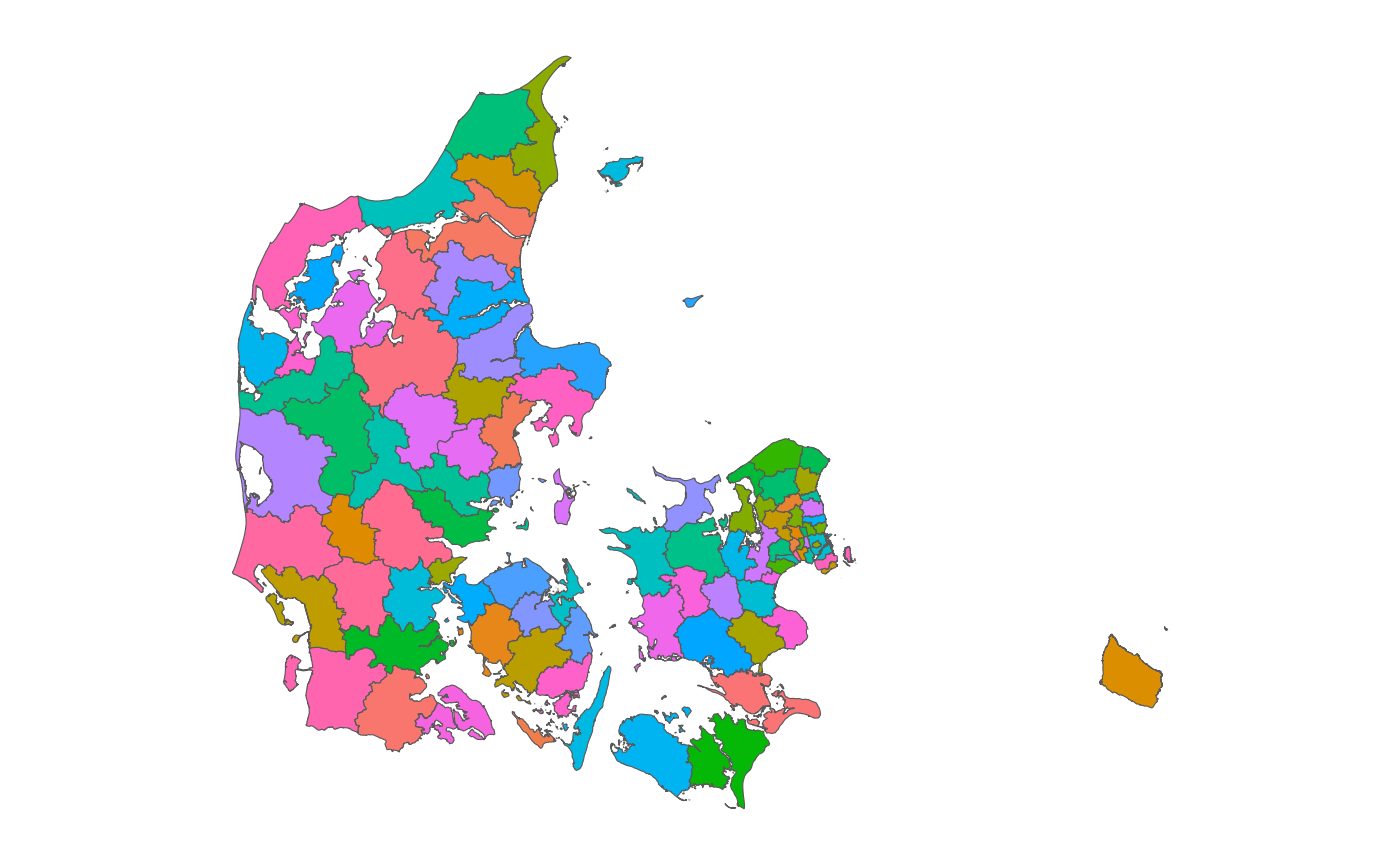
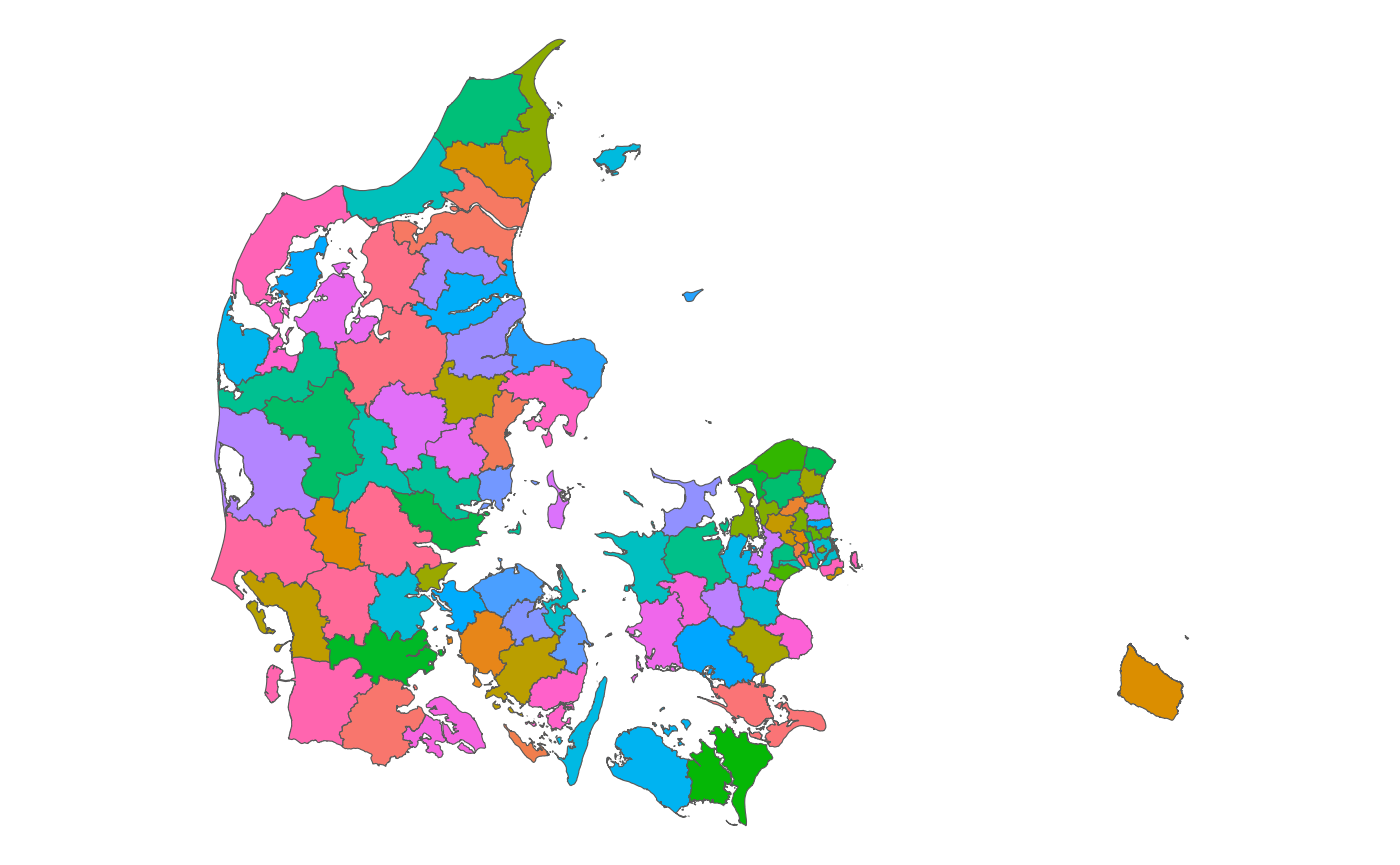
Deploying to gh-pages from @ aleksanderbl29/dawaR@edcf2db7286d0661ddd9278212fba05e02769af3 🚀

Changed region(s): [[0.1536, 0.0312, 0.6143, 0.9676], [0.7679, 0.7179, 0.86, 0.8428], [0.43, 0.1561, 0.4607, 0.2185]]

diff --git a/articles/printing_maps.html b/articles/printing_maps.html
@@ -72,17 +72,6 @@ load the entire <a href="https://tidyverse.tidyverse.org" class="external-link">
 <div class="sourceCode" id="cb1"><pre class="downlit sourceCode r">
 <code class="sourceCode R"><span><span class="kw"><a href="https://rdrr.io/r/base/library.html" class="external-link">library</a></span><span class="op">(</span><span class="va"><a href="https://dawar.aleksanderbl.dk/" class="external-link">dawaR</a></span><span class="op">)</span></span>
 <span><span class="kw"><a href="https://rdrr.io/r/base/library.html" class="external-link">library</a></span><span class="op">(</span><span class="va"><a href="https://ggplot2.tidyverse.org" class="external-link">ggplot2</a></span><span class="op">)</span></span></code></pre></div>
-<pre><code><span><span class="co">#&gt; # Downloading packages -------------------------------------------------------</span></span>
-<span><span class="co">#&gt; - Downloading cowplot from CRAN ...             OK [1.3 Mb in 0.18s]</span></span>
-<span><span class="co">#&gt; Successfully downloaded 1 package in 1.1 seconds.</span></span>
-<span><span class="co">#&gt; </span></span>
-<span><span class="co">#&gt; The following package(s) will be installed:</span></span>
-<span><span class="co">#&gt; - cowplot [1.1.3]</span></span>
-<span><span class="co">#&gt; These packages will be installed into "~/.cache/R/renv/library/dawaR-c4bb29f2/linux-ubuntu-jammy/R-4.4/x86_64-pc-linux-gnu".</span></span>
-<span><span class="co">#&gt; </span></span>
-<span><span class="co">#&gt; # Installing packages --------------------------------------------------------</span></span>
-<span><span class="co">#&gt; - Installing cowplot ...                        OK [installed binary and cached in 0.88s]</span></span>
-<span><span class="co">#&gt; Successfully installed 1 package in 0.93 seconds.</span></span></code></pre>
 <div class="section level2">
 <h2 id="getting-map-data">Getting map data<a class="anchor" aria-label="anchor" href="#getting-map-data"></a>
 </h2>
@@ -90,7 +79,7 @@ load the entire <a href="https://tidyverse.tidyverse.org" class="external-link">
 will request map data for all (98) danish municipalities. The danish
 word for <em>municipality</em> is <em>kommune</em> which is what we will
 request.</p>
-<div class="sourceCode" id="cb3"><pre class="downlit sourceCode r">
+<div class="sourceCode" id="cb2"><pre class="downlit sourceCode r">
 <code class="sourceCode R"><span><span class="va">municipalities</span> <span class="op">&lt;-</span> <span class="fu"><a href="../reference/get_map_data.html">get_map_data</a></span><span class="op">(</span><span class="st">"kommuner"</span><span class="op">)</span></span></code></pre></div>
 <p>In the dropdown below you can see the <code><a href="https://rdrr.io/r/utils/head.html" class="external-link">head()</a></code> of the data
 we have received.</p>
@@ -124,10 +113,10 @@ we have received.</p>
 </details><p>The data can then be passed to a <code><a href="https://ggplot2.tidyverse.org/reference/ggsf.html" class="external-link">ggplot2::geom_sf()</a></code> to
 print the map. I have also specified that the fill color should be based
 on the municipality name to make it a bit more colorful.</p>
-<div class="sourceCode" id="cb5"><pre class="downlit sourceCode r">
+<div class="sourceCode" id="cb4"><pre class="downlit sourceCode r">
 <code class="sourceCode R"><span><span class="fu"><a href="https://ggplot2.tidyverse.org/reference/ggplot.html" class="external-link">ggplot</a></span><span class="op">(</span><span class="va">municipalities</span>, <span class="fu"><a href="https://ggplot2.tidyverse.org/reference/aes.html" class="external-link">aes</a></span><span class="op">(</span>fill <span class="op">=</span> <span class="va">navn</span><span class="op">)</span><span class="op">)</span> <span class="op">+</span></span>
 <span>  <span class="fu"><a href="https://ggplot2.tidyverse.org/reference/ggsf.html" class="external-link">geom_sf</a></span><span class="op">(</span><span class="op">)</span> <span class="op">+</span></span>
-<span>  <span class="fu">cowplot</span><span class="fu">::</span><span class="fu"><a href="https://wilkelab.org/cowplot/reference/theme_map.html" class="external-link">theme_map</a></span><span class="op">(</span><span class="op">)</span> <span class="op">+</span></span>
+<span>  <span class="fu"><a href="https://ggplot2.tidyverse.org/reference/ggtheme.html" class="external-link">theme_void</a></span><span class="op">(</span><span class="op">)</span> <span class="op">+</span></span>
 <span>  <span class="fu"><a href="https://ggplot2.tidyverse.org/reference/theme.html" class="external-link">theme</a></span><span class="op">(</span>legend.position <span class="op">=</span> <span class="st">"none"</span><span class="op">)</span></span></code></pre></div>
 <p><img src="printing_maps_files/figure-html/print_map_municipality-1.png" width="700"></p>
 </div>
@@ -142,11 +131,11 @@ quality) to faster plot the map. We will use the
 <code><a href="https://rdrr.io/pkg/rmapshaper/man/ms_simplify.html" class="external-link">rmapshaper::ms_simplify()</a></code> function to do this.</p>
 <p>First we get the data with <code><a href="../reference/get_map_data.html">get_map_data()</a></code> and provide
 the <em>afstemningsomraader</em> (voting areas) as the type.</p>
-<div class="sourceCode" id="cb6"><pre class="downlit sourceCode r">
+<div class="sourceCode" id="cb5"><pre class="downlit sourceCode r">
 <code class="sourceCode R"><span><span class="va">voting</span> <span class="op">&lt;-</span> <span class="fu"><a href="../reference/get_map_data.html">get_map_data</a></span><span class="op">(</span><span class="st">"afstemningsomraader"</span><span class="op">)</span></span></code></pre></div>
 <p>Then let’s quickly examine how many more polygons we now have to
 draw.</p>
-<div class="sourceCode" id="cb7"><pre class="downlit sourceCode r">
+<div class="sourceCode" id="cb6"><pre class="downlit sourceCode r">
 <code class="sourceCode R"><span><span class="fu"><a href="https://rdrr.io/r/base/nrow.html" class="external-link">nrow</a></span><span class="op">(</span><span class="va">municipalities</span><span class="op">)</span></span>
 <span><span class="co">#&gt; [1] 99</span></span>
 <span><span class="fu"><a href="https://rdrr.io/r/base/nrow.html" class="external-link">nrow</a></span><span class="op">(</span><span class="va">voting</span><span class="op">)</span></span>
@@ -158,14 +147,14 @@ can either just trust me on that or try it out for yourself after
 finishing this article!</p>
 <p>To accomodate this larger number of polygons we will simplify the
 lines that make up said polygons.</p>
-<div class="sourceCode" id="cb8"><pre class="downlit sourceCode r">
+<div class="sourceCode" id="cb7"><pre class="downlit sourceCode r">
 <code class="sourceCode R"><span><span class="va">voting_simplified</span> <span class="op">&lt;-</span> <span class="fu">rmapshaper</span><span class="fu">::</span><span class="fu"><a href="https://rdrr.io/pkg/rmapshaper/man/ms_simplify.html" class="external-link">ms_simplify</a></span><span class="op">(</span></span>
 <span>  <span class="va">voting</span>,</span>
 <span>  keep <span class="op">=</span> <span class="fl">0.01</span>,</span>
 <span>  keep_shapes <span class="op">=</span> <span class="cn">TRUE</span></span>
 <span><span class="op">)</span></span></code></pre></div>
 <p>After simplifying the data we can now plot it.</p>
-<div class="sourceCode" id="cb9"><pre class="downlit sourceCode r">
+<div class="sourceCode" id="cb8"><pre class="downlit sourceCode r">
 <code class="sourceCode R"><span><span class="fu"><a href="https://ggplot2.tidyverse.org/reference/ggplot.html" class="external-link">ggplot</a></span><span class="op">(</span><span class="va">voting_simplified</span>, <span class="fu"><a href="https://ggplot2.tidyverse.org/reference/aes.html" class="external-link">aes</a></span><span class="op">(</span>fill <span class="op">=</span> <span class="va">kommunenavn</span>, color <span class="op">=</span> <span class="va">navn</span><span class="op">)</span><span class="op">)</span> <span class="op">+</span></span>
 <span>  <span class="fu"><a href="https://ggplot2.tidyverse.org/reference/ggsf.html" class="external-link">geom_sf</a></span><span class="op">(</span><span class="op">)</span> <span class="op">+</span></span>
 <span>  <span class="fu">cowplot</span><span class="fu">::</span><span class="fu"><a href="https://wilkelab.org/cowplot/reference/theme_map.html" class="external-link">theme_map</a></span><span class="op">(</span><span class="op">)</span> <span class="op">+</span></span>
@@ -182,11 +171,11 @@ precincts name.</p>
 distributed in the police regions you can simply get the data for both
 maps and pass them as their own dataset/geom combos in
 <a href="https://ggplot2.tidyverse.org" class="external-link">ggplot2</a>.</p>
-<div class="sourceCode" id="cb10"><pre class="downlit sourceCode r">
+<div class="sourceCode" id="cb9"><pre class="downlit sourceCode r">
 <code class="sourceCode R"><span><span class="va">police</span> <span class="op">&lt;-</span> <span class="fu"><a href="../reference/get_map_data.html">get_map_data</a></span><span class="op">(</span><span class="st">"politikredse"</span><span class="op">)</span></span>
 <span><span class="co"># We will reuse the municipality data from earlier.</span></span></code></pre></div>
 <p>Then you can pass it to <a href="https://ggplot2.tidyverse.org" class="external-link">ggplot2</a> as follows.</p>
-<div class="sourceCode" id="cb11"><pre class="downlit sourceCode r">
+<div class="sourceCode" id="cb10"><pre class="downlit sourceCode r">
 <code class="sourceCode R"><span><span class="fu"><a href="https://ggplot2.tidyverse.org/reference/ggplot.html" class="external-link">ggplot</a></span><span class="op">(</span><span class="op">)</span> <span class="op">+</span></span>
 <span>  <span class="fu"><a href="https://ggplot2.tidyverse.org/reference/ggsf.html" class="external-link">geom_sf</a></span><span class="op">(</span></span>
 <span>    data <span class="op">=</span> <span class="va">police</span>,</span>
@@ -200,7 +189,7 @@ maps and pass them as their own dataset/geom combos in
 <span>  <span class="op">)</span> <span class="op">+</span></span>
 <span>  <span class="fu">cowplot</span><span class="fu">::</span><span class="fu"><a href="https://wilkelab.org/cowplot/reference/theme_map.html" class="external-link">theme_map</a></span><span class="op">(</span><span class="op">)</span> <span class="op">+</span></span>
 <span>  <span class="fu"><a href="https://ggplot2.tidyverse.org/reference/theme.html" class="external-link">theme</a></span><span class="op">(</span>legend.position <span class="op">=</span> <span class="st">"none"</span><span class="op">)</span></span></code></pre></div>
-<p><img src="printing_maps_files/figure-html/unnamed-chunk-5-1.png" width="700"></p>
+<p><img src="printing_maps_files/figure-html/unnamed-chunk-4-1.png" width="700"></p>
 <p>As you can see, we have now produced a map with shapes from different
 subsections of Denmark.</p>
 </div>
